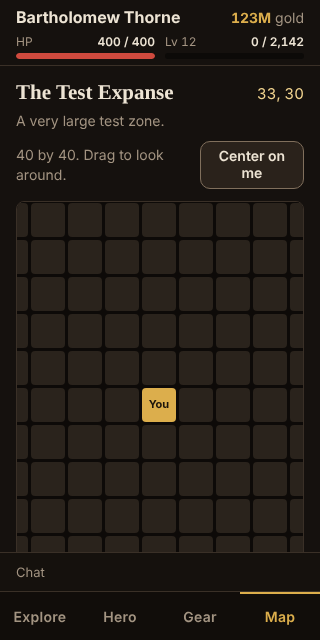
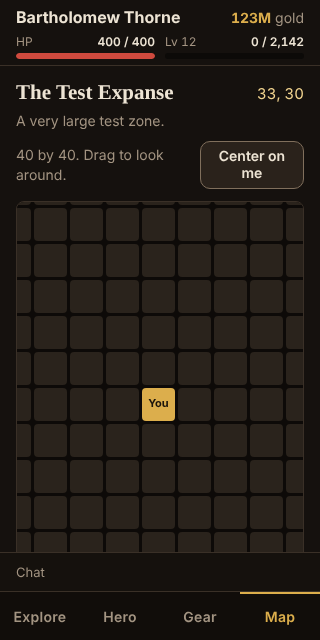
UI Phase 2 review corrections: medium map overflow, sheet with keyboard
P2-01: every map scrolls inside its own frame when it does not fit (10x10 and 12x12 maps
pushed the screen sideways at 320px); the frame and Center on me appear when it overflows;
centring also brings the hero square into the visible screen area. Regression test for
7x7, 10x10, 12x12 and 40x40 at 320px.

P2-02: the bank sheet stays inside the visible area with an overlay keyboard (also when iOS
pans the view); the amount field and its Deposit/Withdraw buttons are scrolled into view.
Regression test at 320x640, 390x844 and 844x390.

Report updated with the corrections and new evidence.

Claude-Session: https://claude.ai/code/session_01Wy1pzWMqgqFTgTAy5Pj7h6

Changed region(s): [[0.0625, 0.3125, 0.9375, 0.875]]

diff --git a/public/js/main.js b/public/js/main.js
@@ -155,6 +155,17 @@ function syncViewport() {
   root.setProperty('--vvh', `${Math.round(vv.height)}px`);
   root.setProperty('--kb', `${covered}px`);
   positionToast();
+  // With the keyboard up over a sheet, keep the field being typed in and the buttons that act on
+  // it (the next row of buttons, such as Deposit and Withdraw) in view.
+  const field = document.activeElement;
+  if (covered > 0 && field?.matches?.('dialog[open] input')) {
+    let next = (field.closest('label') || field).nextElementSibling;
+    while (next && !next.querySelector('button:not([disabled])')) next = next.nextElementSibling;
+    requestAnimationFrame(() => {
+      next?.scrollIntoView({ block: 'nearest' });
+      field.scrollIntoView({ block: 'nearest' });
+    });
+  }
 }
 if (window.visualViewport) {
   window.visualViewport.addEventListener('resize', syncViewport);
@@ -651,17 +662,29 @@ function viewMap() {
       <span class="nm">${esc(p.name)}<small>${esc(p.sub)}</small></span>
       <span class="go">${here ? 'Here' : esc(directionTo(char, p.x, p.y))}</span></button>`;
   });
-  const big = zone.size > 12;
   return `
     <div class="place-row"><h2>${esc(zone.name)}</h2><span class="coords">${char.loc.x}, ${char.loc.y}</span></div>
     <p class="small muted" style="margin-top:6px">${esc(zone.desc)}</p>
-    ${big ? `<div class="map-tools"><span class="small muted">${zone.size} by ${zone.size}. Drag to look around.</span>${btn('mapcenter', null, 'Center on me', 'sm')}</div>` : ''}
-    <div class="map-scroll${big ? ' big' : ''}" id="map-scroll">
+    <div class="map-tools" id="map-tools" hidden><span class="small muted">${zone.size} by ${zone.size}. Drag to look around.</span>${btn('mapcenter', null, 'Center on me', 'sm')}</div>
+    <div class="map-scroll" id="map-scroll">
       <div class="map ${zone.pvp ? 'pvp' : ''}" id="map" role="group" aria-label="Map of ${esc(zone.name)}, ${zone.size} by ${zone.size} squares" aria-describedby="map-help" style="--n:${zone.size}">${cells.join('')}</div>
     </div>
     <div class="legend"><span><b>T</b> Town</span><span><b>P</b> Path</span><span><b>X</b> Locked path</span><span><b>B</b> Boss</span><span id="map-help">Tap a square to walk there. With a keyboard, arrow keys move between squares and Enter walks.</span></div>
     ${placeRows.length ? `<h3>Places</h3><div class="rows">${placeRows.join('')}</div>` : ''}`;
 }
+
+// Any map wider or taller than its space scrolls inside its own frame (whatever the zone size and
+// screen); the frame and the Center on me button only appear when it does.
+function syncMapFrame() {
+  const box = $('#map-scroll');
+  if (!box) return;
+  const map = box.firstElementChild;
+  const over = map.offsetWidth > box.clientWidth + 1 || box.scrollHeight > box.clientHeight + 1;
+  box.classList.toggle('scrolls', over);
+  const tools = $('#map-tools');
+  if (tools) tools.hidden = !over;
+}
+window.addEventListener('resize', () => { if ($('#map-scroll')) { syncMapFrame(); if (char) centerMap(char.loc.x, char.loc.y); } });
 
 // Scroll the map so a square sits in the middle of the visible area (the map scrolls on its own,
 // the rest of the screen stays put).
@@ -673,6 +696,12 @@ function centerMap(x, y) {
   const c = cell.getBoundingClientRect();
   box.scrollLeft += c.left - b.left - (box.clientWidth - c.width) / 2;
   box.scrollTop += c.top - b.top - (box.clientHeight - c.height) / 2;
+  // On short screens the frame can be taller than the visible part of the screen area:
+  // scroll that too, just enough to show the square.
+  const main = $('#main').getBoundingClientRect();
+  const r = cell.getBoundingClientRect();
+  if (r.bottom > main.bottom - 8) $('#main').scrollTop += r.bottom - main.bottom + 8;
+  else if (r.top < main.top + 8) $('#main').scrollTop -= main.top + 8 - r.top;
 }
 
 // ---------------------------------------------------------------- sheets
@@ -969,6 +998,7 @@ function render() {
   // The map keeps where you panned it, and recentres when you arrive or move.
   const box = $('#map-scroll');
   if (box) {
+    syncMapFrame();
     const mapKey = locKey();
     if (viewChanged || mapKey !== ui.mapKey || !mapScroll) { ui.mapKey = mapKey; centerMap(char.loc.x, char.loc.y); }
     else if (box !== mapBox) [box.scrollLeft, box.scrollTop] = mapScroll;

diff --git a/public/css/style.css b/public/css/style.css
@@ -279,15 +279,15 @@ p { margin: 0 0 8px; }
 .down { color: var(--bad); font-weight: 700; }
 
 /* ---------------------------------------------------------------- map */
-/* Squares fill the width but never shrink below a comfortable tap size (32px); larger zones
-   scroll inside their own frame, which the hero's square is centred in. */
-.map-scroll { margin: 12px 0; position: relative; }
-.map-scroll.big {
-  overflow: auto; overscroll-behavior: contain; max-height: min(64dvh, 640px);
-  border: 1px solid var(--line); border-radius: var(--radius-sm); padding: 4px; background: #0d0a08;
-}
-.map { display: grid; gap: 3px; grid-template-columns: repeat(var(--n), minmax(32px, 1fr)); width: max(100%, calc(var(--n) * 35px - 3px)); max-width: calc(var(--n) * 72px); }
-.map-scroll.big .map { width: calc(var(--n) * 37px - 3px); max-width: none; }
+/* Squares fill the width but never shrink below a comfortable tap size (32px). A map that does not
+   fit scrolls inside its own frame (never the screen), centred on the hero's square. */
+.map-scroll { margin: 12px 0; position: relative; max-width: 100%; overflow: auto; overscroll-behavior: contain; max-height: min(64dvh, 640px); }
+.map-scroll.scrolls { border: 1px solid var(--line); border-radius: var(--radius-sm); padding: 4px; background: #0d0a08; }
+/* Wide enough for 33px squares (32px minimum) (scrolling if needed); otherwise fill the width, but no taller than the
+   frame and no squares bigger than 72px. */
+.map { display: grid; gap: 3px; grid-template-columns: repeat(var(--n), minmax(32px, 1fr));
+  width: max(calc(var(--n) * 36px - 3px), min(100%, calc(var(--n) * 72px), min(64dvh, 640px) - 10px)); }
+.map-tools[hidden] { display: none; }
 .map-tools { display: flex; align-items: center; gap: 10px; justify-content: space-between; margin-top: 10px; }
 .map button {
   appearance: none; aspect-ratio: 1; min-height: 32px; border: 0; border-radius: 4px; padding: 0; cursor: pointer;

diff --git a/docs/ui-phase-2-report.md b/docs/ui-phase-2-report.md
@@ -11,7 +11,7 @@ It makes no changes to game rules, server APIs, the database or production depen
 | 1. 320px HUD and action dock | HUD 95 → 66px. Dock 229 → 111px in town. Content area at 320×640 up from 224 to 375px; monster rows visible up from 0 to 2. |
 | 2. Phone landscape | Two-column layout below 540px tall. Content up from 106 to 390px, rows up from 0 to 3. The battle log goes from no room to 285px of space. |
 | 3. Chat with the on-screen keyboard | The drawer follows `visualViewport`, so the message box stays above an overlay (iOS-style) keyboard at every size tested. Before, it was hidden behind the keyboard at every size. |
-| 4. Map for 40×40 zones | A scrollable frame, centred on the hero. Squares go from 20 to 34px. Tab stops go from 1600 to 1. Arrow, Home/End and PageUp/PageDown keys, a "Center on me" button and a Places list. axe `target-size` (serious) fixed. |
+| 4. Map for 40×40 zones | A scrollable frame, centred on the hero. Squares go from 20 to 33px. Tab stops go from 1600 to 1. Any map that doesn't fit scrolls in its own frame, whatever the zone size (corrected in review, P2-01). Arrow, Home/End and PageUp/PageDown keys, a "Center on me" button and a Places list. axe `target-size` (serious) fixed. |
 | 5. Explore hierarchy and combat | Shorter town line. The victory summary now follows the latest log line, next to the actions. Damage numbers are centred over the HP bar instead of covering names. |
 | 6. Tablet and desktop | Same two-column layout. Monster rows: 4 → 8 at 1024×768 and 6 → 8 at 1440×900. Battle log room: 361 → 663px and 493 → 795px. |
 
@@ -36,7 +36,7 @@ Both columns were measured by the same tool, `tools/ui-metrics.mjs`, using the f
 | 1440×900 | open: rows / battle log room | 6 / 493 | 8 / 795 |
 | 390×844, 200% text | content height | 138 | 311 |
 | all sizes | chat input visible with a 45% overlay keyboard | no (all 7 sizes) | yes (all 7 sizes) |
-| all sizes | 40×40 map: square / hero visible / tab stops | 20px / no / 1600 | 34px / yes / 1 |
+| all sizes | 40×40 map: square / hero visible / tab stops | 20px / no / 1600 | 33px / yes / 1 |
 
 | AC | Criterion | Status |
 |---|---|---|
@@ -90,8 +90,9 @@ Both columns were measured by the same tool, `tools/ui-metrics.mjs`, using the f
 - The chat panel uses most of a short screen (at least 320px when possible) instead of a fixed 72%.
 
 **Map** (`viewMap`, `centerMap`, `mapKeys`):
-- Zones larger than 12×12 show in a bordered frame that scrolls on its own (`overscroll-behavior: contain`, at most 64% of the screen height).
-- Squares are at least 32px, and 34px as measured.
+- Every map sits in its own scroll container (`overscroll-behavior: contain`, at most 64% of the screen height), so a map never makes the screen scroll sideways.
+- When the map does not fit, a frame and the "Center on me" button appear, measured after each render and on resize.
+- Squares are at least 32px, and 33px as measured. Small maps fill the width, up to 72px squares and no taller than the frame.
 - The map centres on the hero on arrival and after each move. It keeps a manual pan across re-renders (for example HP regeneration ticks).
 - "Center on me" recentres and focuses the hero square.
 - Squares use a roving tabindex:
@@ -111,7 +112,7 @@ Both columns were measured by the same tool, `tools/ui-metrics.mjs`, using the f
 ## Tests
 
 - `npm test` (engine): 24 of 24 pass.
-- `npm run test:ui`: 37 of 37 pass, three consecutive runs.
+- `npm run test:ui`: 37 of 37 pass, three consecutive runs (39 after the review corrections, below).
   - The 27 Phase 1 tests pass with no changes.
   - 10 new tests are in `tests/ui/responsive.test.mjs`, one or more per acceptance criterion.
 - **The new tests fail on the old code.** Run against `main`'s `public/` (via `UI_PUBLIC_DIR`), all 10 fail for the expected reasons. Examples:
@@ -122,6 +123,60 @@ Both columns were measured by the same tool, `tools/ui-metrics.mjs`, using the f
 - The fixtures are deterministic. The fake backend fails any test that makes an unexpected request, and no test reaches the live Supabase project.
 - **Keyboard simulation.** `fakeKeyboard()` and `setKeyboard()` replace `window.visualViewport` with a stub whose height shrinks while the page keeps its size. That is how iOS Safari presents the keyboard. The Phase 2 baseline simulated it by resizing the window; that always passed in Chromium and did not show the bug.
 - **Harness fix.** `UI_PUBLIC_DIR` now accepts an absolute path (`path.resolve`, not `path.join`).
+
+## Review corrections (PR #11 review)
+
+The review accepted the design. It asked for two corrections and settled three questions.
+
+**Decisions taken:**
+- AC-7 accepted as revised (reachable by scrolling); location details are not collapsed.
+- Gem count may be hidden in the compact HUD.
+- The desktop side column stays as it is: no minimap or extra chat surface in Phase 2.
+
+**P2-01 — medium maps overflowed at 320px.**
+- *Cause:* the scrolling frame was only used for zones larger than 12×12. A 10×10 map at 32px squares (347px) is wider than the 288px content area at 320px, so `#main` scrolled sideways. The built-in 10×10 Bramblebrook Meadows map was affected.
+- *Fix:*
+  - Every map is now inside `#map-scroll` (`overflow: auto`).
+  - `syncMapFrame()` measures after each render and on resize. When the map overflows, it adds the frame and shows the size note and "Center on me".
+  - Centring also scrolls `#main` just enough to bring the hero square into view when the frame is taller than the visible screen area. Before, at 320×640, the hero square could sit under the chat bar.
+- Hero centring, roving focus, focus restoration after walking and manual panning are unchanged.
+- *Test:* `P2-01 maps of every size scroll inside their own frame at 320px` covers 7×7, 10×10, 12×12 and 40×40, with the hero in the far corner. It checks:
+  - no sideways scrolling of `#main` or the page;
+  - the frame fits the screen area;
+  - the map scrolls inside the frame (10×10 and up);
+  - squares are at least 32px;
+  - the hero square is visible inside the frame and on screen;
+  - one tab stop and no axe violations;
+  - arrow keys reach the far corner and it scrolls into view;
+  - Enter walks, focus stays on the square and the hero stays visible;
+  - a manual pan survives re-renders, and "Center on me" is offered.
+- The test fails on Phase 2 as reviewed (b582885) with "10x10: the screen area does not scroll sideways", and passes now.
+- Screenshots: `reviewed-320-map-meadows.png` / `corrected-320-map-meadows.png` and the same for 12×12.
+
+**P2-02 — bank sheet with the keyboard.**
+- *Inspection:*
+  - The dialog and its inner `.panel` share the same height cap, `min(90dvh, var(--vvh) - 8px)`.
+  - The more specific `dialog#sheet .panel` rule overrides the generic `.panel { max-height: 90dvh }`.
+  - The dialog is `overflow: visible` and only the panel scrolls, so the two constraints cannot clip each other. The new test confirms the panel never extends past the dialog.
+- *Usability gap found:* with the keyboard up at 320×640, the amount field stayed visible but the Deposit and Withdraw buttons sat under the keyboard until you scrolled the sheet.
+- *Fix:* when the keyboard opens over an input in an open dialog, `syncViewport()` scrolls the next row of enabled buttons into view, and then the field.
+- *iOS panning:* iOS also pans the visible area up when focusing an input. The fake keyboard now models this through `visualViewport.offsetTop`, and the sheet stays inside the panned visible area.
+- *Test:* `P2-02 bank sheet` runs at 320×640, 390×844 and 844×390 with a 45% overlay keyboard. It checks:
+  - the sheet lies inside the visible area, including when panned;
+  - the panel is not clipped;
+  - focus stays in the field;
+  - the field, Deposit and Withdraw are in view without the player scrolling;
+  - Close can be scrolled into view above the keyboard;
+  - a typed deposit goes through with the keyboard up;
+  - Escape dismisses and returns focus to Bank.
+- The test fails on `main` with "320x640: sheet 222-640 inside visible 352". Phase 2 as reviewed already kept the sheet above the keyboard; the buttons-in-view check was added with this fix.
+- Screenshots: `before-320-bank-keyboard.png` and `after-320-bank-keyboard.png`. On the smallest screen, Close scrolls out of view while typing; it is one scroll up, and Escape also closes the sheet.
+
+**Validation after the corrections:**
+- `npm test`: 24 of 24 pass.
+- `npm run test:ui`: 39 of 39 pass, three runs in a row (the 37 from before plus the two above).
+- axe across all 85 screens: 0 violations of any impact.
+- `metrics-after.json` and the `after-*` map screenshots were refreshed.
 
 ## Accessibility results
 
@@ -154,8 +209,8 @@ These were not tested and should be checked on devices before or after merge:
 - Modernizing destructive confirmations.
 - Feedback when a battle double tap is blocked.
 
-## Open questions for review
+## Review decisions
 
-1. AC-7 at 200% text: accept "reachable by scrolling" as written, or collapse the location block at large text sizes?
-2. Hiding the gem count on very narrow screens and in landscape (it is on the Gear tab): acceptable?
-3. The wide layout leaves empty space in the side column on tall desktop screens. A minimap or inline chat could use it in a later phase.
+1. AC-7: the revised scrolling-based criterion is accepted.
+2. Gem count: hiding it in the compact HUD is approved; it stays on the Gear tab.
+3. Desktop side column: left as it is in Phase 2. The future desktop layout is tracked in `docs/backlog.md`.
